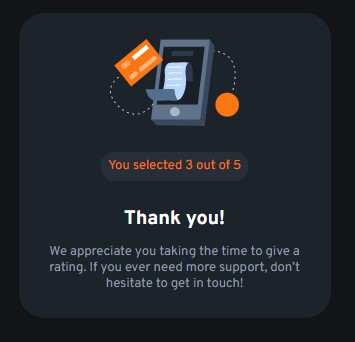
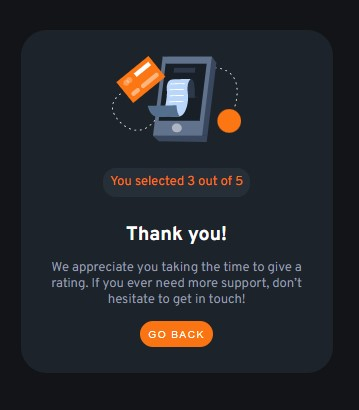
"last commit"

diff --git a/index.js b/index.js
@@ -19,11 +19,15 @@ document.addEventListener("DOMContentLoaded", function (e) {
   });
 
   document.querySelector("#submit__btn").addEventListener("click", (e) => {
-    console.log(rateSelected);
-
     document.querySelector("#main-card").style.display = "none";
     document.querySelector("#thanks-card").style.display = "flex";
-    document.querySelector("#result-text").innerHTML = `You selected ${rateSelected} out of 5`
+    document.querySelector(
+      "#result-text"
+    ).innerHTML = `You selected ${rateSelected} out of 5`;
+  });
 
+  document.querySelector(".reset__button").addEventListener("click", (e) => {
+    document.querySelector("#thanks-card").style.display = "none";
+    document.querySelector("#main-card").style.display = "flex";
   });
 });

diff --git a/index.css b/index.css
@@ -112,7 +112,10 @@ body {
   user-select: none;
 }
 
-.buttons__container > a {
+.buttons__container > a, .reset__button {
+  align-self: center;
+  justify-self: center;
+  border: none;
   background-color: var(--orange);
   color: var(--white);
   border-radius: 1rem;
@@ -124,7 +127,7 @@ body {
   transition: all 0.2s ease;
 }
 
-.buttons__container > a:hover {
+.buttons__container > a:hover, .reset__button:hover {
   background-color: var(--white);
   color: var(--orange);
   cursor: pointer;

diff --git a/index.html b/index.html
@@ -59,6 +59,7 @@
         We appreciate you taking the time to give a rating. If you ever need
         more support, don’t hesitate to get in touch!
       </p>
+      <button class="reset__button">Go Back</button>
     </article>
   </body>
 </html>
